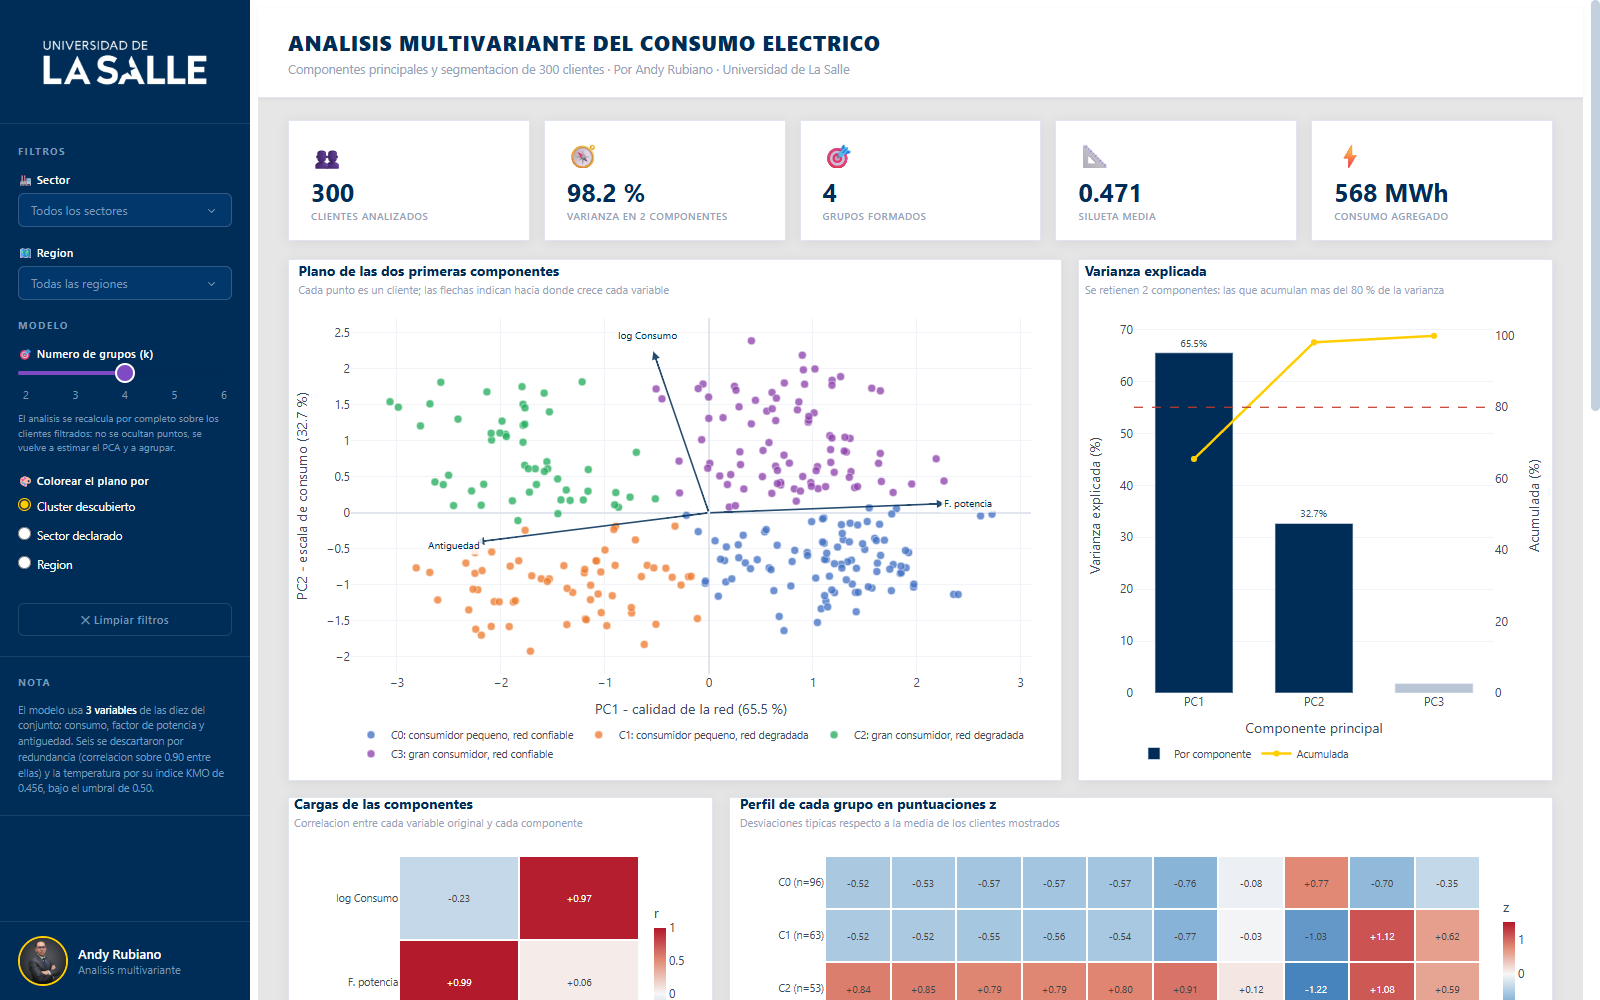
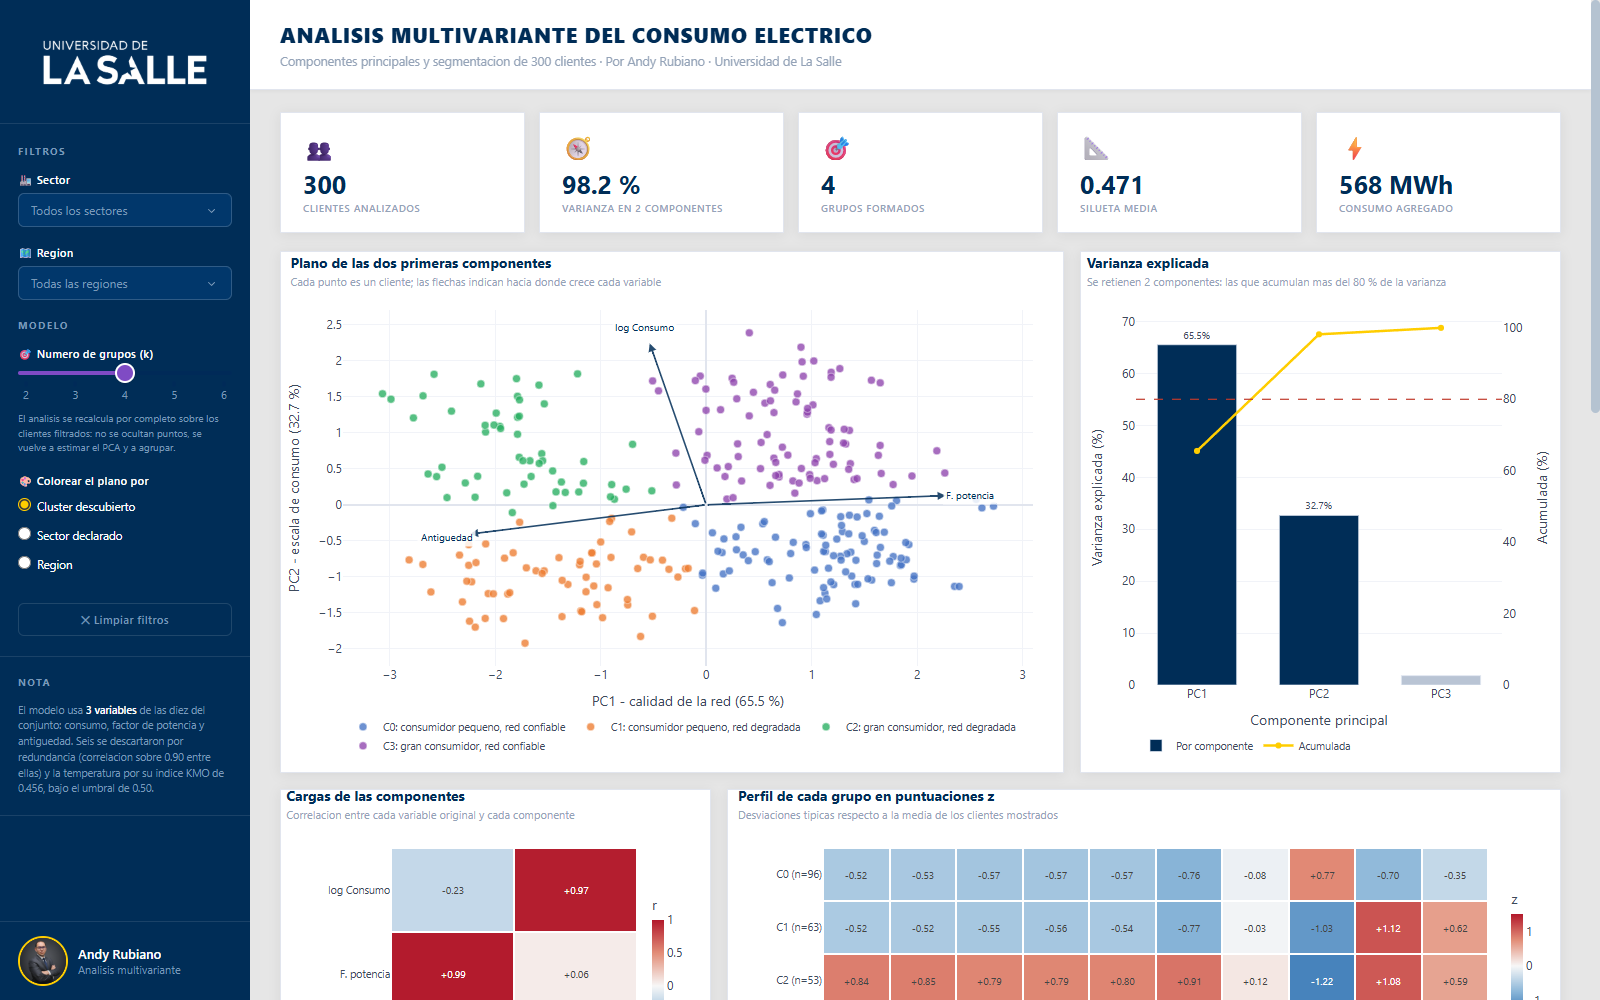
feat: adding screenshots of dashboard

diff --git a/assets/dashboard.css b/assets/dashboard.css
@@ -12,6 +12,31 @@
  * barra lateral, asi que sus reglas no pueden colgar de .sidebar-dropdown.
  */
 
+/* --- Armazon de la aplicacion ----------------------------------------------
+ *
+ * El dashboard ocupa exactamente la altura de la ventana y NO deja crecer a la
+ * pagina: la barra lateral se mantiene completa de arriba abajo y es el lienzo
+ * de la derecha el que se desplaza por dentro. Sin esto el documento crece
+ * hasta los 2400 px del contenido, la barra lateral -que mide una pantalla- se
+ * queda flotando en la parte superior y debajo de ella aparece una franja
+ * vacia.
+ *
+ * Dash no normaliza el <body>, que conserva su margen por defecto de 8 px, asi
+ * que hay que anularlo aqui o quedaria un borde blanco alrededor de todo.
+ */
+html,
+body {
+  margin: 0;
+  padding: 0;
+  height: 100%;
+  overflow: hidden;
+}
+
+/* Contenedor que Dash monta entre el <body> y el layout. */
+#react-entry-point {
+  height: 100%;
+}
+
 /* --- Control cerrado -------------------------------------------------------- */
 .sidebar-dropdown.dash-dropdown {
   background-color: #01376B;

diff --git a/src/layout.py b/src/layout.py
@@ -201,10 +201,10 @@ sidebar = html.Div(
         ),
     ],
     style={
-        'width': SIDEBAR_WIDTH, 'minWidth': SIDEBAR_WIDTH,
+        # flexShrink 0 evita que el lienzo, al crecer, le robe ancho.
+        'width': SIDEBAR_WIDTH, 'minWidth': SIDEBAR_WIDTH, 'flexShrink': '0',
         'backgroundColor': SIDEBAR_BG, 'display': 'flex', 'flexDirection': 'column',
-        'height': '100vh', 'position': 'fixed', 'top': '0', 'left': '0',
-        'zIndex': '100', 'overflowY': 'auto', 'overflowX': 'hidden',
+        'height': '100%', 'overflowY': 'auto', 'overflowX': 'hidden',
         'fontFamily': FONT, 'boxSizing': 'border-box',
     },
 )
@@ -226,6 +226,7 @@ encabezado = html.Div(
         'backgroundColor': CARD_BG, 'padding': '20px 30px',
         'borderBottom': f'1px solid {CARD_BORDER}',
         'boxShadow': '0 1px 4px rgba(0,0,0,0.05)', 'fontFamily': FONT,
+        'position': 'sticky', 'top': '0', 'zIndex': '20',
     },
 )
 
@@ -290,8 +291,15 @@ lienzo = html.Div(
                 kpi_card('⚡', '', 'Consumo agregado', card_id='kpi-consumo',
                          hint='Suma del consumo mensual de los clientes filtrados'),
             ],
-            style={'display': 'flex', 'gap': '14px', 'marginBottom': '18px',
-                   'flexWrap': 'wrap'},
+            # Rejilla en vez de flex con envoltura: con cinco tarjetas flexibles
+            # el navegador acaba bajando una sola a la linea siguiente, que
+            # entonces ocupa todo el ancho y descuadra la fila. auto-fit reparte
+            # columnas iguales y reduce su numero solo cuando de verdad no caben.
+            style={
+                'display': 'grid',
+                'gridTemplateColumns': 'repeat(auto-fit, minmax(150px, 1fr))',
+                'gap': '14px', 'marginBottom': '18px',
+            },
         ),
 
         # --- Plano principal y varianza --------------------------------------
@@ -376,13 +384,20 @@ lienzo = html.Div(
 layout = html.Div(
     [
         sidebar,
+        # El scroll vive aqui, no en el documento: por eso la barra lateral no
+        # necesita position fixed y el encabezado puede quedarse pegado arriba.
         html.Div(
             [encabezado, lienzo],
+            id='lienzo-principal',
             style={
-                'marginLeft': SIDEBAR_WIDTH, 'backgroundColor': MAIN_BG,
-                'minHeight': '100vh', 'fontFamily': FONT,
+                'flex': '1', 'height': '100%', 'overflowY': 'auto',
+                'overflowX': 'hidden', 'backgroundColor': MAIN_BG,
+                'fontFamily': FONT,
             },
         ),
     ],
-    style={'fontFamily': FONT},
+    style={
+        'display': 'flex', 'height': '100%', 'overflow': 'hidden',
+        'fontFamily': FONT,
+    },
 )

diff --git a/README.md b/README.md
@@ -250,6 +250,12 @@ Tres lecturas que sostiene la evidencia:
 **Vista general** — indicadores, plano de componentes con las cargas superpuestas y varianza explicada. La barra lateral filtra por sector y región, ajusta *k* y permite colorear el plano por grupo descubierto, sector declarado o región, que es la forma directa de comprobar si la segmentación reproduce lo que ya se sabía o aporta algo nuevo. Bajo los filtros, la nota metodológica deja a la vista por qué el modelo usa tres variables y no diez.
 
 <div align="center">
+    <img src="public/assets/images/screenshots/Dashboard_scroll.png" width="880" alt="El dashboard desplazado: la barra lateral y el encabezado permanecen fijos">
+</div>
+
+**La página no se desplaza: lo hace el lienzo.** El dashboard ocupa exactamente la altura de la ventana y se reparte en dos columnas de altura completa; el scroll vive dentro de la derecha. Así la barra lateral —con sus filtros y la firma— queda siempre entera y a mano, y el encabezado se mantiene pegado arriba: da igual a qué altura del análisis se esté, los controles y el título nunca se pierden de vista. La alternativa, dejar crecer el documento, obliga a subir hasta el principio cada vez que se quiere cambiar un filtro.
+
+<div align="center">
     <img src="public/assets/images/screenshots/Dashboard_autor.png" width="470" alt="Ficha del autor en la barra lateral del dashboard">
 </div>
 
@@ -265,7 +271,7 @@ Tres lecturas que sostiene la evidencia:
     <img src="public/assets/images/screenshots/Dashboard_2.png" width="880" alt="Vista completa del dashboard">
 </div>
 
-**Vista completa** — bajo el plano principal: cargas, perfiles en z, coordenadas paralelas, composición por sector y región, la matriz de correlaciones que justifica la selección de variables y la tabla de perfiles.
+**Vista completa** — todo el lienzo desenrollado en una sola imagen: bajo el plano principal quedan las cargas, los perfiles en z, las coordenadas paralelas, la composición por sector y región, la matriz de correlaciones que justifica la selección de variables y la tabla de perfiles.
 
 ### Componentes principales y clustering (Python · Matplotlib)
 
